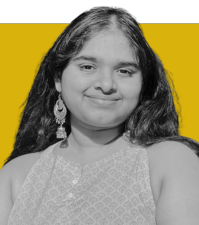
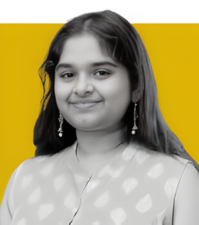
about YG info edit

diff --git a/footersection/templates/footersection/people.html b/footersection/templates/footersection/people.html
@@ -39,7 +39,7 @@
       <div class="grid grid-cols-1 md:grid-cols-2 gap-12 mt-6">
         <!-- Patron 1: Vallabh Bhanshali -->
         <div>
-          <img src="{% static 'footersection/img/Team/Vallabh Bhanshali 1.png' %}" alt="Vallabh Bhanshali" class="w-[280px] h-auto object-cover">
+          <img src="{% static 'footersection/img/Team/Vallabh Bhanshali 2.png' %}" alt="Vallabh Bhanshali" class="w-[280px] h-auto object-cover">
           <p class="font-bold mt-4 mb-1 text-lg">Vallabh Bhanshali</p>
           <p class="text-[#863F3F] text-[0.9rem] leading-tight">
             Chairman, ENAM Securities<br>
@@ -74,7 +74,7 @@
       <hr class="h-1 w-full bg-[#863F3F] border-none mt-2 mb-6">
 
             <div class="grid grid-cols-1 md:grid-cols-2 gap-12 mt-6">
-        <!-- Patron 1: Vallabh Bhanshali -->
+        
         <div>
           <img src="{% static 'footersection/img/Team/Yugank Goyal.png' %}" alt="Vallabh Bhanshali" class="w-[280px] h-auto object-cover">
           <p class="font-bold mt-4 mb-1 text-lg">Yugank Goyal</p>
@@ -84,7 +84,7 @@
           </p>
           <hr class="h-[3px] w-[50px] bg-[#863F3F] border-none my-3">
           <p class="text-base leading-relaxed">
-            Yugank joined FLAME University with a vision to build the Centre for Knowledge Alternatives and document India, district by district. He pursued Masters and PhD in law and economics from Europe as an Erasmus Mundus scholar. He was one of the founding members of O.P. Jindal Global University, and the Indian School of Public Policy. His research interests include law and development, institutional economics, knowledge frameworks and psephology.
+            Yugank joined in 2021 with a vision to build the Centre for Knowledge Alternatives and document India's districts. He studied engineering in India and later pursued Masters and PhD in law and economics from Europe as an Erasmus Mundus scholar. He was one of the founding members of O.P. Jindal Global University, and the Indian School of Public Policy. He is Member, Maharashtra Govt. NEP Steering Committee and Honorary Advisor, MITRA (Maharashtra Institution for Transformation). His research lies at the interesection of law and development, institutional economics and knowledge frameworks.  
             </p>
         </div>
 
@@ -100,7 +100,7 @@
         
         <div class="grid grid-cols-2 sm:grid-cols-2 md:grid-cols-3 lg:grid-cols-4 gap-x-8 gap-y-12">
           
-          <!-- Karishma K Shah -->
+        
             <!-- Diki Sherpa -->
             <div>
             <img src="{% static 'footersection/img/Team/Diki Sherpa.png' %}" alt="Diki Sherpa" class="w-[300px] h-auto hover-image" >
@@ -128,7 +128,7 @@
             <div class="pt-2 text-left text-[#863F3F]">
               <p class="font-bold mb-1 text-base text-gray-800">Karishma K Shah</p>
               {% comment %} <p class="text-sm mb-0 text-black"><i>Research Lead</i></p> {% endcomment %}
-              <p class="text-sm mt-0 text-gray-600">Finance & Public Policy, FLAME University</p>
+              <p class="text-sm mt-0 text-gray-600">Finance & Public Policy <br>FLAME University</p>
             </div>
             </div>
 
